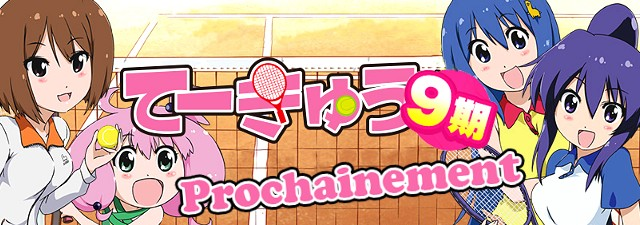
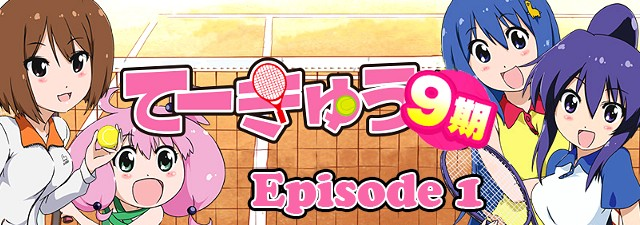
new release

Changed region(s): [[0.25, 0.6533, 0.8438, 0.9956]]

diff --git a/2017-07-19.html b/2017-07-19.html
@@ -1,0 +1,105 @@
+<!DOCTYPE html>
+<html lang="fr-FR">
+	<head>
+		<title>Teekyuu Saison 9 Ep 1 vostfr | Nobluesky Fansub</title>
+		<meta charset="utf-8" />
+		<meta name=viewport content="width=980">
+		<link rel="Shortcut Icon" type="image/x-icon" href="favicon.ico" />
+		<link href="fonts/fonts.css" rel="stylesheet" type="text/css" />
+		<link href="style.css" rel="stylesheet" type="text/css" media="screen" />
+		<link rel="stylesheet" href="menu.css" type="text/css" />
+		<script src="jquery.js" type="text/javascript"></script>
+		<script src="background-script.js" type="text/javascript"></script>
+	</head>
+<body>
+<div class="banner">
+	<a title="Nobluesky Fansub" href="index.html"> <img class="banner" alt="Nobluesky Fansub" title="Nobluesky Fansub" src="images/banner.png"/> </a>
+</div>
+<!-- end banner -->
+<div id="menu-wrapper">
+	<div id="menu">
+		<script type="text/javascript">
+		$( '#menu' ).load( 'menu.html' );
+		</script>
+		<noscript>Activez javascript pour voir le menu!</noscript>
+	</div>
+</div>
+<!-- end #menu -->
+<div id="page-wrapper">
+<div id="sidebar-wrapper">
+	<div id="sidebar">
+		<script type="text/javascript">
+		$( '#sidebar' ).load( 'sidebar.html' );
+		</script>
+	</div>
+	<!-- end #sidebar -->
+</div>
+	<div id="article">
+		<div id="content">
+			<div class="post">
+				<h1 class="title">Teekyuu Saison 9 Ep 1 vostfr</h1>
+				<p class="meta"><span class="date">19 Juillet 2017</span><span class="posted">Posté par <a href="about.html#nobluesky">Nobluesky</a></span></p>
+				<div style="clear: both;">&nbsp;</div>
+				<div class="entry">
+					<img class="post-images" src="images/2017/news5.jpg" alt="" />
+					<p>Bonjour à tous,</p>
+					<p>J'espère que vous passez un bon été, on va réchauffer tout ça avec Teekyuu !</p>
+					<p>Ne me dites pas que vous avez trop chaud, y'a pas à discuter^^</p>
+					<p>Cette série sans fin vous réserve probablement pas mal de surprises supplémentaires, alors c'est reparti ! Peut-être serai-je amené à faire des sorties par lots en fonction de mon emploi du temps, mais je ne lâche rien. Et comme cette fois les signes ne sont pas de moi, c'est (beaucoup) plus rapide, qu'on se le dise xD</p>
+					<p>Merci à Yohan de la Meda pour la relecture en attendant que Yone, votre correcteur préféré, retrouve un PC.</p>
+					<p>À très bientôt !</p>
+					<h3>Téléchargements et streaming</h3>
+					<p class="links dl"><a href="http://ddl.nobluesub.com/teekyuu9.html" class="button-dl">Dédié</a></p>&nbsp; | &nbsp;
+					<p class="links dl"><a href="http://jheberg.net/captcha/nobluesub-teekyuu-s9-01-hd-1280x720-x264/" class="button-dl">Jheberg</a></p>&nbsp; | &nbsp;
+					<p class="links dl"><a href="https://rutube.ru/video/c092a46987df527be2b77b3d520d1b5c/" class="button-dl">Rutube</a></p>&nbsp; | &nbsp;
+					<p class="links dl"><a href="https://mega.nz/#!2RszQYYY!QrL9GeKnNjek7_Wv1Qck5D8R2AaQArLwywk220u23wU" class="button-dl">Mega</a></p>
+					<h3>Commentaires</h3>
+					<div id="disqus_thread"></div>
+					<script type="text/javascript">
+						/* * * CONFIGURATION VARIABLES: EDIT BEFORE PASTING INTO YOUR WEBPAGE * * */
+						var disqus_shortname = 'noblueskyfansub'; // required: replace example with your forum shortname
+
+						/* * * DON'T EDIT BELOW THIS LINE * * */
+						(function() {
+							var dsq = document.createElement('script'); dsq.type = 'text/javascript'; dsq.async = true;
+							dsq.src = '//' + disqus_shortname + '.disqus.com/embed.js';
+							(document.getElementsByTagName('head')[0] || document.getElementsByTagName('body')[0]).appendChild(dsq);
+						})();
+					</script>
+					<noscript>Activez javascript pour voir les commentaires.</noscript>
+					<a href="http://disqus.com" class="dsq-brlink">commentaires propulsés par <span class="logo-disqus">Disqus</span></a>
+				</div>
+			</div>
+			<div style="clear: both;">&nbsp;</div>
+		</div>
+		<!-- end #content -->
+		<div style="clear: both;">&nbsp;</div>
+	</div>
+</div>
+<!-- end #page -->
+<script type="text/javascript">
+$(window).scroll(function() {
+    if ($(this).scrollTop() < 1000) {
+        $("#footer").hide();
+    }
+    else {
+        $("#footer").show();
+    }
+});
+$(window).scroll(function() {
+  if ($(this).scrollTop() < 1000) {
+    $("footer").slideUp();
+      }
+  else {
+    $("footer").slideDown();
+      }
+});		
+</script>
+<div id="footer">
+	<script type="text/javascript">
+	$( '#footer' ).load( 'footer.html' );
+	</script>
+</div>
+<!-- end #footer -->
+</body>
+</html>

diff --git a/page2.html b/page2.html
@@ -31,7 +31,7 @@
 <div id="page-wrapper">
 	<div class="slider-wrapper theme-default">
 		<div id="slider" class="nivoSlider">
-			<a href="2017-06-28.html"><img src="images/img01.jpg" alt="" /></a><a href="#"><img src="images/img02.jpg" alt="" /></a>
+			<a href="2017-07-19.html"><img src="images/img02.jpg" alt="" /></a><a href="2017-06-28.html"><img src="images/img01.jpg" alt="" /></a>
 		</div>
 	</div>
 <script type="text/javascript">
@@ -50,6 +50,18 @@
 </div>
 	<div id="feed">
 		<div id="content">
+			<div class="post">
+				<h1 class="title"><a href="2016-12-31.html">Sohryuden 02 vostfr</a></h1>
+				<p class="meta"><span class="date">31 Décembre 2016</span><span class="posted">Posté par <a href="about.html#nobluesky">Nobluesky</a></span></p>
+				<p class="comcount"><a href="https://nobluesub.com/2016-12-31.html#disqus_thread">Commentaires</a></p>
+				<div style="clear: both;">&nbsp;</div>
+				<div class="entry">
+					<img class="post-images" src="images/2016/news37.jpg" alt="" />
+					<p>Bonsoir à tous !</p>
+					<p>Par cette journée de givre absolument superbe, j'écris cette news avec les doigts encore engourdis par le froid après ma balade hivernale. Passons à l'objet de cette news, Sohryuden. La tranquilité de nos héros est trop belle pour être vraie après tout, car la vie de dragon est assez mouvementée...</p>
+					<p class="links"><a href="2016-12-31.html" class="button">Lire la suite</a></p>
+				</div>
+			</div>
 			<div class="post">
 				<h1 class="title"><a href="2016-12-26.html">Teekyuu Saison 8 Ep 12 vostfr</a></h1>
 				<p class="meta"><span class="date">26 Décembre 2016</span><span class="posted">Posté par <a href="about.html#nobluesky">Nobluesky</a></span></p>
@@ -104,19 +116,6 @@
 					<p>Une histoire. Une séparation, puis... Une rencontre qui changea sa vie.</p>
 					<p>Découvrez ce préquel sur l'histoire de Kanae, un moment...</p>
 					<p class="links"><a href="2016-12-04.html" class="button">Lire la suite</a></p>
-				</div>
-			</div>
-			<div class="post">
-				<h1 class="title"><a href="2016-11-27.html">Teekyuu Saison 8 Ep 7 à 8 vostfr</a></h1>
-				<p class="meta"><span class="date">27 Novembre 2016</span><span class="posted">Posté par <a href="about.html#nobluesky">Nobluesky</a></span></p>
-				<p class="comcount"><a href="https://nobluesub.com/2016-11-27.html#disqus_thread">Commentaires</a></p>
-				<div style="clear: both;">&nbsp;</div>
-				<div class="entry">
-					<img class="post-images" src="images/2016/news32.jpg" alt="" />
-					<p>Salut les gens,</p>
-					<p>j'espère que vous apprécierez ces nouveaux Teekyuu, car l'épisode 7 m'a pris des heures à l'édit (ils sont simples mais il y en avait beaucoup). Parfois je me demande si ça n'irait pas plus vite pour une série "normale" de 24 min, mais bon, ça ne me dérange pas de le faire (quand j'ai le temps) ^_^</p>
-					<p>Comme à l'accoutumée, c'est le délire intégral...</p>
-					<p class="links"><a href="2016-11-27.html" class="button">Lire la suite</a></p>
 				</div>
 			</div>
 			<div id="button-page-wrapper">

diff --git a/index.html b/index.html
@@ -35,7 +35,7 @@
 <div id="page-wrapper">
 	<div class="slider-wrapper theme-default">
 		<div id="slider" class="nivoSlider">
-			<a href="2017-06-28.html"><img src="images/img01.jpg" alt="" /></a><a href="#"><img src="images/img02.jpg" alt="" /></a>
+			<a href="2017-07-19.html"><img src="images/img02.jpg" alt="" /></a><a href="2017-06-28.html"><img src="images/img01.jpg" alt="" /></a>
 		</div>
 	</div>
 <script type="text/javascript">
@@ -59,6 +59,20 @@
 				<div style="clear: both;">&nbsp;</div>
 				<div class="entry">
 					<p>Bienvenue sur le site de la Nobluesky Fansub !</p>
+				</div>
+			</div>
+			<div class="post">
+				<h1 class="title"><a href="2017-07-19.html">Teekyuu Saison 9 Ep 1 vostfr</a></h1>
+				<p class="meta"><span class="date">19 Juillet 2017</span><span class="posted">Posté par <a href="about.html#nobluesky">Nobluesky</a></span></p>
+				<p class="comcount"><a href="https://nobluesub.com/2017-07-19.html#disqus_thread">Commentaires</a></p>
+				<div style="clear: both;">&nbsp;</div>
+				<div class="entry">
+					<img class="post-images" src="images/2017/news5.jpg" alt="" />
+					<p>Bonjour à tous,</p>
+					<p>J'espère que vous passez un bon été, on va réchauffer tout ça avec Teekyuu !</p>
+					<p>Ne me dites pas que vous avez trop chaud, y'a pas à discuter^^</p>
+					<p>Cette série sans fin vous réserve probablement pas mal de surprises supplémentaires, alors c'est reparti ! Peut-être serai-je amené à faire des sorties par lots en fonction de mon emploi du temps, mais je ne lâche rien...</p>
+					<p class="links"><a href="2017-07-19.html" class="button">Lire la suite</a></p>
 				</div>
 			</div>
 			<div class="post">
@@ -113,18 +127,6 @@
 					<p>Sougen no Ko Tenguri, ou Tenguri l'enfant des steppes, est un court métrage de 22 minutes datant de 1977 qui raconte l'histoire d'un petit garçon et d'un veau. Bon, là vous vous dites, pourquoi je regarderais ça ??</p>
 					<p>Ben parce que...</p>
 					<p class="links"><a href="2017-01-11.html" class="button">Lire la suite</a></p>
-				</div>
-			</div>
-			<div class="post">
-				<h1 class="title"><a href="2016-12-31.html">Sohryuden 02 vostfr</a></h1>
-				<p class="meta"><span class="date">31 Décembre 2016</span><span class="posted">Posté par <a href="about.html#nobluesky">Nobluesky</a></span></p>
-				<p class="comcount"><a href="https://nobluesub.com/2016-12-31.html#disqus_thread">Commentaires</a></p>
-				<div style="clear: both;">&nbsp;</div>
-				<div class="entry">
-					<img class="post-images" src="images/2016/news37.jpg" alt="" />
-					<p>Bonsoir à tous !</p>
-					<p>Par cette journée de givre absolument superbe, j'écris cette news avec les doigts encore engourdis par le froid après ma balade hivernale. Passons à l'objet de cette news, Sohryuden. La tranquilité de nos héros est trop belle pour être vraie après tout, car la vie de dragon est assez mouvementée...</p>
-					<p class="links"><a href="2016-12-31.html" class="button">Lire la suite</a></p>
 				</div>
 			</div>
 			<div id="button-page-wrapper">

diff --git a/teekyuu9.html b/teekyuu9.html
@@ -1,0 +1,87 @@
+<!DOCTYPE html>
+<html lang="fr-FR">
+	<head>
+		<title>Teekyuu Saison 9 | Nobluesky Fansub</title>
+		<meta charset="utf-8" />
+		<meta name=viewport content="width=980">
+		<link rel="Shortcut Icon" type="image/x-icon" href="favicon.ico" />
+		<link href="fonts/fonts.css" rel="stylesheet" type="text/css" />
+		<link href="style.css" rel="stylesheet" type="text/css" media="screen" />
+		<link rel="stylesheet" href="menu.css" type="text/css" />
+		<script src="jquery.js" type="text/javascript"></script>
+		<script src="background-script.js" type="text/javascript"></script>
+	</head>
+<body>
+<div class="banner">
+	<a title="Nobluesky Fansub" href="index.html"> <img class="banner" alt="Nobluesky Fansub" title="Nobluesky Fansub" src="images/banner.png"/> </a>
+</div>
+<!-- end banner -->
+<div id="menu-wrapper">
+	<div id="menu">
+		<script type="text/javascript">
+		$( '#menu' ).load( 'menu.html' );
+		</script>
+		<noscript>Activez javascript pour voir le menu!</noscript>
+	</div>
+</div>
+<!-- end #menu -->
+<div id="page-wrapper">
+<div id="sidebar-wrapper">
+	<div id="sidebar">
+		<script type="text/javascript">
+		$( '#sidebar' ).load( 'sidebar.html' );
+		</script>
+	</div>
+	<!-- end #sidebar -->
+</div>
+	<div id="article">
+		<div id="content">
+			<div class="post">
+				<h1 class="title">Teekyuu Saison 9</h1>
+				<div style="clear: both;">&nbsp;</div>
+				<div style="clear: both;">&nbsp;</div>
+				<div class="entry">
+					<img class="post-images" src="images/2017/teekyuu9.jpg" alt="" />
+					<p>12 épisodes de 2 min, Juillet 2017</p>
+					<p>Suite de la Saison 8</p>
+					<p>On ne présente plus cette série WTF qui revient encore et encore !</p>
+					<h3>Téléchargements et streaming</h3>
+					Episode 01 : 
+					<p class="links dl"><a href="http://jheberg.net/captcha/nobluesub-teekyuu-s9-01-hd-1280x720-x264/" class="button-dl">Jheberg</a></p>&nbsp; | &nbsp;
+					<p class="links dl"><a href="https://rutube.ru/video/c092a46987df527be2b77b3d520d1b5c/" class="button-dl">Rutube</a></p>&nbsp; | &nbsp;
+					<p class="links dl"><a href="https://mega.nz/#!2RszQYYY!QrL9GeKnNjek7_Wv1Qck5D8R2AaQArLwywk220u23wU" class="button-dl">Mega</a></p>
+				</div>
+			</div>
+			<div style="clear: both;">&nbsp;</div>
+		</div>
+		<!-- end #content -->
+		<div style="clear: both;">&nbsp;</div>
+	</div>
+</div>
+<!-- end #page -->
+<script type="text/javascript">
+$(window).scroll(function() {
+    if ($(this).scrollTop() < 1000) {
+        $("#footer").hide();
+    }
+    else {
+        $("#footer").show();
+    }
+});
+$(window).scroll(function() {
+  if ($(this).scrollTop() < 1000) {
+    $("footer").slideUp();
+      }
+  else {
+    $("footer").slideDown();
+      }
+});		
+</script>
+<div id="footer">
+	<script type="text/javascript">
+	$( '#footer' ).load( 'footer.html' );
+	</script>
+</div>
+<!-- end #footer -->
+</body>
+</html>

diff --git a/archives.html b/archives.html
@@ -58,6 +58,7 @@
 					<div>
 					<!-- here comes spoiler content -->
 					<div style="clear: both;">&nbsp;</div>
+					<p><a href="2016-11-27.html" target="_blank">Teekyuu Saison 8 Ep 7 à 8 vostfr</a></p>
 					<p><a href="2016-11-13.html" target="_blank" >Teekyuu Saison 8 Ep 6 vostfr</a></p>
 					<p><a href="2016-11-06.html" target="_blank" >Teekyuu Saison 8 Ep 3 à 5 vostfr</a></p>
 					<p><a href="2016-10-30.html" target="_blank" >Sohryuden 01 vostfr</a></p>

diff --git a/sidebar.html b/sidebar.html
@@ -38,9 +38,9 @@
 				</li>
 			</ul>
 			<ul id="avancements" style="list-style: none!important;">
-				<li>Teekyuu S9 Ep01 : 50%
+				<li>Teekyuu S9 Ep01 : 100%
 					<div class="progress-bar blue stripes" title="Progression" >
-					<span style="width: 50%"></span>
+					<span style="width: 100%"></span>
 					</div>
 				</li>
 			</ul>

diff --git a/menu.html b/menu.html
@@ -3,6 +3,7 @@
   <li class="menu-line"><a class="inactive" href="#">Projets en cours</a>
 	<ul id="en-cours">
 		<div id="en-cours">
+			<li class="menu-unfold"><a href="teekyuu9.html">Teekyuu Saison 9</a></li>
 			<li class="menu-unfold"><a href="sohryuden.html">Sohryuden</a></li>
 		</div>
 	</ul>
